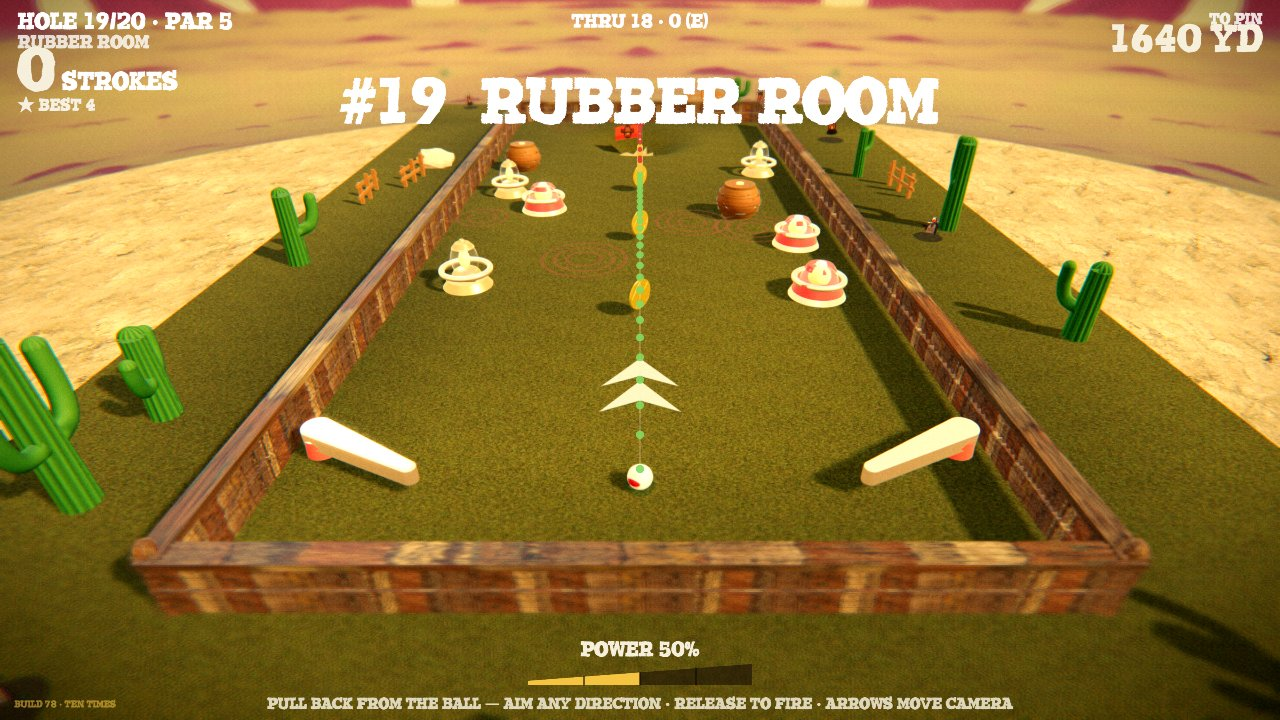
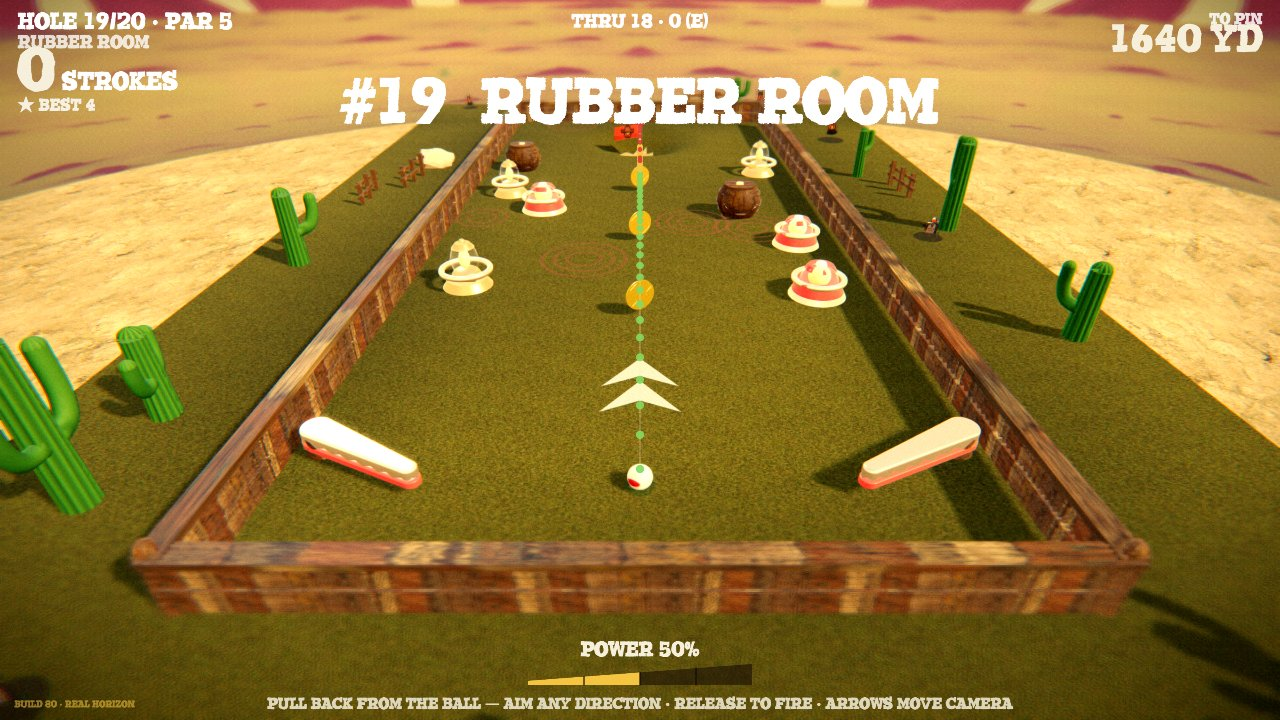
BUILD 80 real horizon: the DEFAULT backdrop is now a real PHOTOGRAPH — Poly Haven 'goegap_road' (CC0, Goegap Nature Reserve, golden-hour rocky desert) cropped to a 3072x832 horizon band as assets/pano-desert.jpg; panoMat photo-pano mode: wraps the 360 seamlessly exactly once (RepeatWrapping, repeat 

diff --git a/js/pingolf.js b/js/pingolf.js
@@ -55,7 +55,7 @@
     jump: { c: 0x49d36a, e: 0x14702a, ch: '↑', name: 'JUMP', dur: 0, info: 'Pops the ball up into the air — hop clean over walls and hazards like a proper mini-golf jump.' }
   };
   var PU_KINDS = ['magnet', 'shield', 'slow', 'gem', 'jump'];
-  var BUILD = 'BUILD 79 · SHOWPIECE';
+  var BUILD = 'BUILD 80 · REAL HORIZON';
 
   /* ================================================================ HOLE BUILDER
      A tiny DSL: each hole function fills a builder with obstacles and returns it. */
@@ -503,7 +503,7 @@
       R3.env = pm.fromEquirectangular(t).texture; pm.dispose(); t.dispose();
     } catch (e) { R3.env = null; }
   }
-  var SKYGRAD = { grass: ['#7cc0cc', '#b7d8d2', '#eec79e'], ice: ['#e4d4ac', '#e9dcb4', '#dfcba4'], moon: ['#e6deb6', '#d8cdb2', '#bdaec6'], mud: ['#ee9e4a', '#f2b65a', '#f6c97c'], rubber: ['#d9cfa9', '#e0d7b1', '#e8dfbb'], speed: ['#70c2ac', '#8cccb6', '#eaa97c'], sand: ['#cfba82', '#dcc794', '#e8d4a2'] };   // gradient tops continue each painting's sky above the panorama
+  var SKYGRAD = { grass: ['#6f9fcb', '#9dc2dd', '#d9e4ea'], ice: ['#e4d4ac', '#e9dcb4', '#dfcba4'], moon: ['#e6deb6', '#d8cdb2', '#bdaec6'], mud: ['#ee9e4a', '#f2b65a', '#f6c97c'], rubber: ['#d9cfa9', '#e0d7b1', '#e8dfbb'], speed: ['#70c2ac', '#8cccb6', '#eaa97c'], sand: ['#cfba82', '#dcc794', '#e8d4a2'] };   // gradient tops continue each painting's sky above the panorama
   function skyTex(theme, fallback) {   // vertical gradient sky (zenith -> warm horizon) instead of a flat color
     var cols = SKYGRAD[theme]; if (!cols) { var hx = '#' + new T.Color(fallback).getHexString(); cols = [hx, hx, hx]; }
     return tex('sky_' + theme, 4, 256, function (x) { var g = x.createLinearGradient(0, 0, 0, 256); g.addColorStop(0, cols[0]); g.addColorStop(0.62, cols[1]); g.addColorStop(1, cols[2]); x.fillStyle = g; x.fillRect(0, 0, 4, 256); });
@@ -583,7 +583,7 @@
     var t2 = new T.CanvasTexture(c); if (T.sRGBEncoding) t2.encoding = T.sRGBEncoding; R3['_' + key] = t2; return t2;
   }
   // THE GUNSLINGERS AESTHETIC — the brand's painted backgrounds wrap the scene; brand prop cutouts dress the diorama
-  var BGMAP = { grass: 'sky-grass.jpg', sand: 'sky-sand.jpg', mud: 'sky-mud.jpg', speed: 'sky-speed.jpg', rubber: 'sky-rubber.jpg', moon: 'sky-moon.jpg', ice: 'sky-ice.jpg' };
+  var BGMAP = { grass: 'pano-desert.jpg', sand: 'sky-sand.jpg', mud: 'sky-mud.jpg', speed: 'sky-speed.jpg', rubber: 'sky-rubber.jpg', moon: 'sky-moon.jpg', ice: 'sky-ice.jpg' };
   var GROUNDC = { grass: 0xe3d2a8, sand: 0xe6c486, mud: 0xddaab0, speed: 0xc89894, rubber: 0xd6c290, moon: 0xa89cc2, ice: 0xd0b890 };   // warm desert-beige sand tints (grass = pure beige to match the sunset backdrop floor)
   var FOGC = { grass: 0xd8895c, sand: 0xe0b878, mud: 0xdfa3ac, speed: 0xc08c84, rubber: 0xd4c08c, moon: 0xa898c4, ice: 0xceb084 };   // distance haze tuned to each painting's horizon so the skirt melts into the art
   function panoAlpha() {   // vertical fade: painting melts into the ground skirt like distance haze (also hides the cylinder facet line)
@@ -595,11 +595,14 @@
   }
   function panoMat(name) {
     var key = 'pano_' + name; if (R3['_' + key]) return R3['_' + key];
-    var m = new T.MeshBasicMaterial({ side: T.BackSide, fog: false, color: 0xbfa98a, transparent: true, alphaMap: panoAlpha() });
+    var photo = name.indexOf('pano-') === 0;
+    var m = new T.MeshBasicMaterial(photo ? { side: T.BackSide, fog: false, color: 0xbfa98a } : { side: T.BackSide, fog: false, color: 0xbfa98a, transparent: true, alphaMap: panoAlpha() });   // photo pano keeps its own ground as the distant valley floor — no haze dissolve
     if ('toneMapped' in m) m.toneMapped = false;
     var t = new T.TextureLoader().load('assets/' + name, function () { m.color.set(0xffffff); m.needsUpdate = true; });
     if (T.sRGBEncoding) t.encoding = T.sRGBEncoding;
-    t.wrapS = T.MirroredRepeatWrapping; t.wrapT = T.ClampToEdgeWrapping; t.repeat.set(4, 1.12); t.offset.y = 0.22; m.map = t;   // mirrored wrap = no visible seam (the paintings aren't tileable); land band at eye level, painted sky above, clamped sky-top blends into the gradient
+    if (photo) { t.wrapS = T.RepeatWrapping; t.wrapT = T.ClampToEdgeWrapping; t.repeat.set(1, 0.5); t.offset.y = 0.18; }   // photographic 360° pano: wraps seamlessly once; vertical zoom puts the mountain line at eye level
+    else { t.wrapS = T.MirroredRepeatWrapping; t.wrapT = T.ClampToEdgeWrapping; t.repeat.set(4, 1.12); t.offset.y = 0.22; }
+    m.map = t;   // mirrored wrap = no visible seam (the paintings aren't tileable); land band at eye level, painted sky above, clamped sky-top blends into the gradient
     R3['_' + key] = m; return m;
   }
   function spriteMat(name) {

diff --git a/game.html b/game.html
@@ -67,6 +67,6 @@
     </div>
   </div>
   <script src="vendor/three.min.js"></script>
-  <script src="js/pingolf.js?v=123"></script>
+  <script src="js/pingolf.js?v=124"></script>
 </body>
 </html>